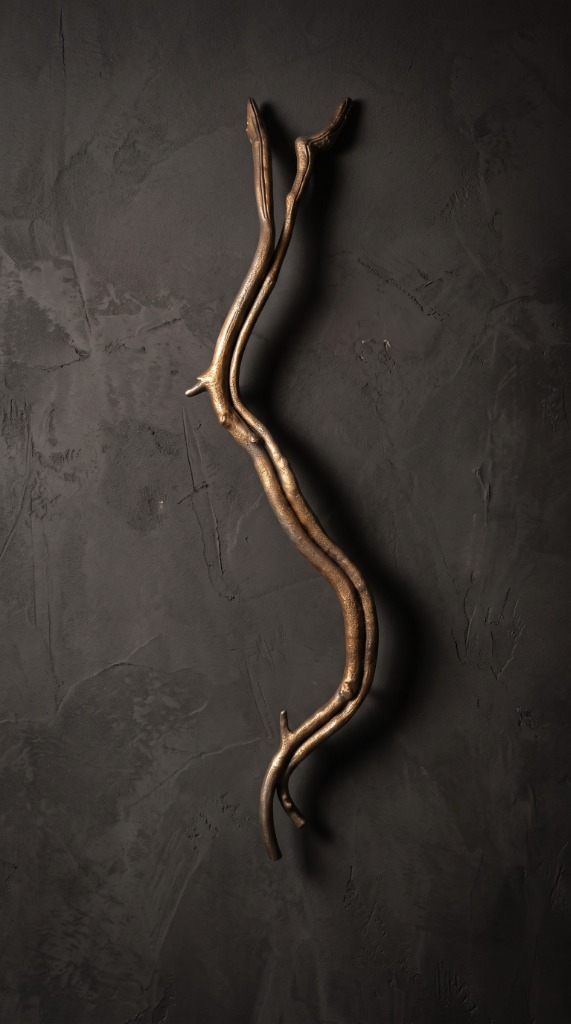
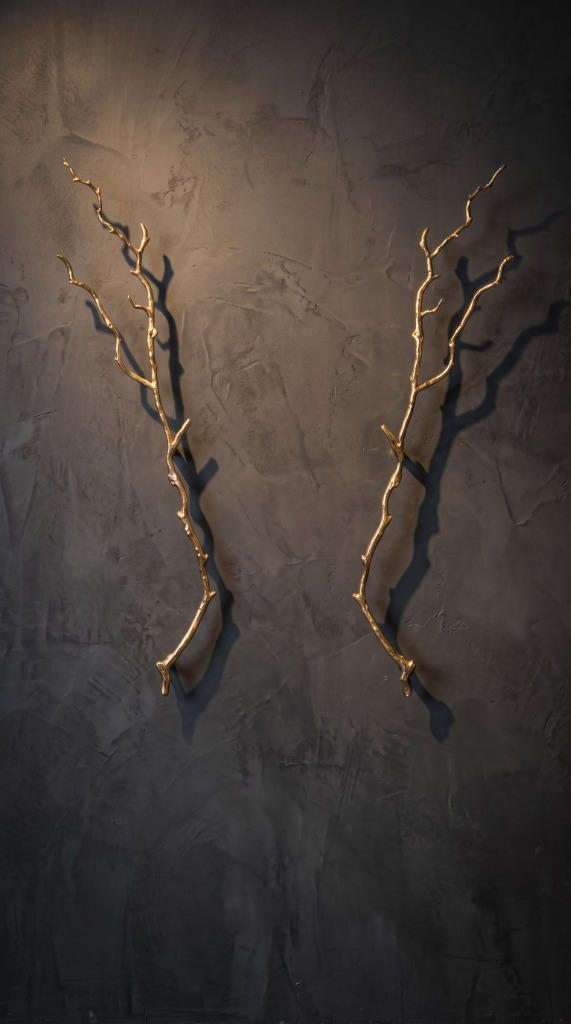
fix(handles): remove redundant item 4 from slider and update pagination to 4 slides

diff --git a/handles.html b/handles.html
@@ -61,7 +61,6 @@
           <span class="dash-dot w-8 h-[2px] bg-white/30 rounded-full transition-all duration-300 cursor-pointer"></span>
           <span class="dash-dot w-8 h-[2px] bg-white/30 rounded-full transition-all duration-300 cursor-pointer"></span>
           <span class="dash-dot w-8 h-[2px] bg-white/30 rounded-full transition-all duration-300 cursor-pointer"></span>
-          <span class="dash-dot w-8 h-[2px] bg-white/30 rounded-full transition-all duration-300 cursor-pointer"></span>
         </div>
       </div>
     </div>
@@ -86,11 +85,6 @@
       },
       {
         src: '/assets/images/handles/handle-04.jpg',
-        title: 'ARTISAN BARK TEXTURE PULL',
-        desc: 'Cast solid brass door hardware celebrating the natural texture of aged tree bark with refined ergonomic curvature.'
-      },
-      {
-        src: '/assets/images/handles/handle-05.jpg',
         title: 'SYMMETRIC BRANCH PULL PAIR',
         desc: 'A dramatic pair of branching solid brass door handles engineered for grand double doors and luxury entranceways.'
       }
